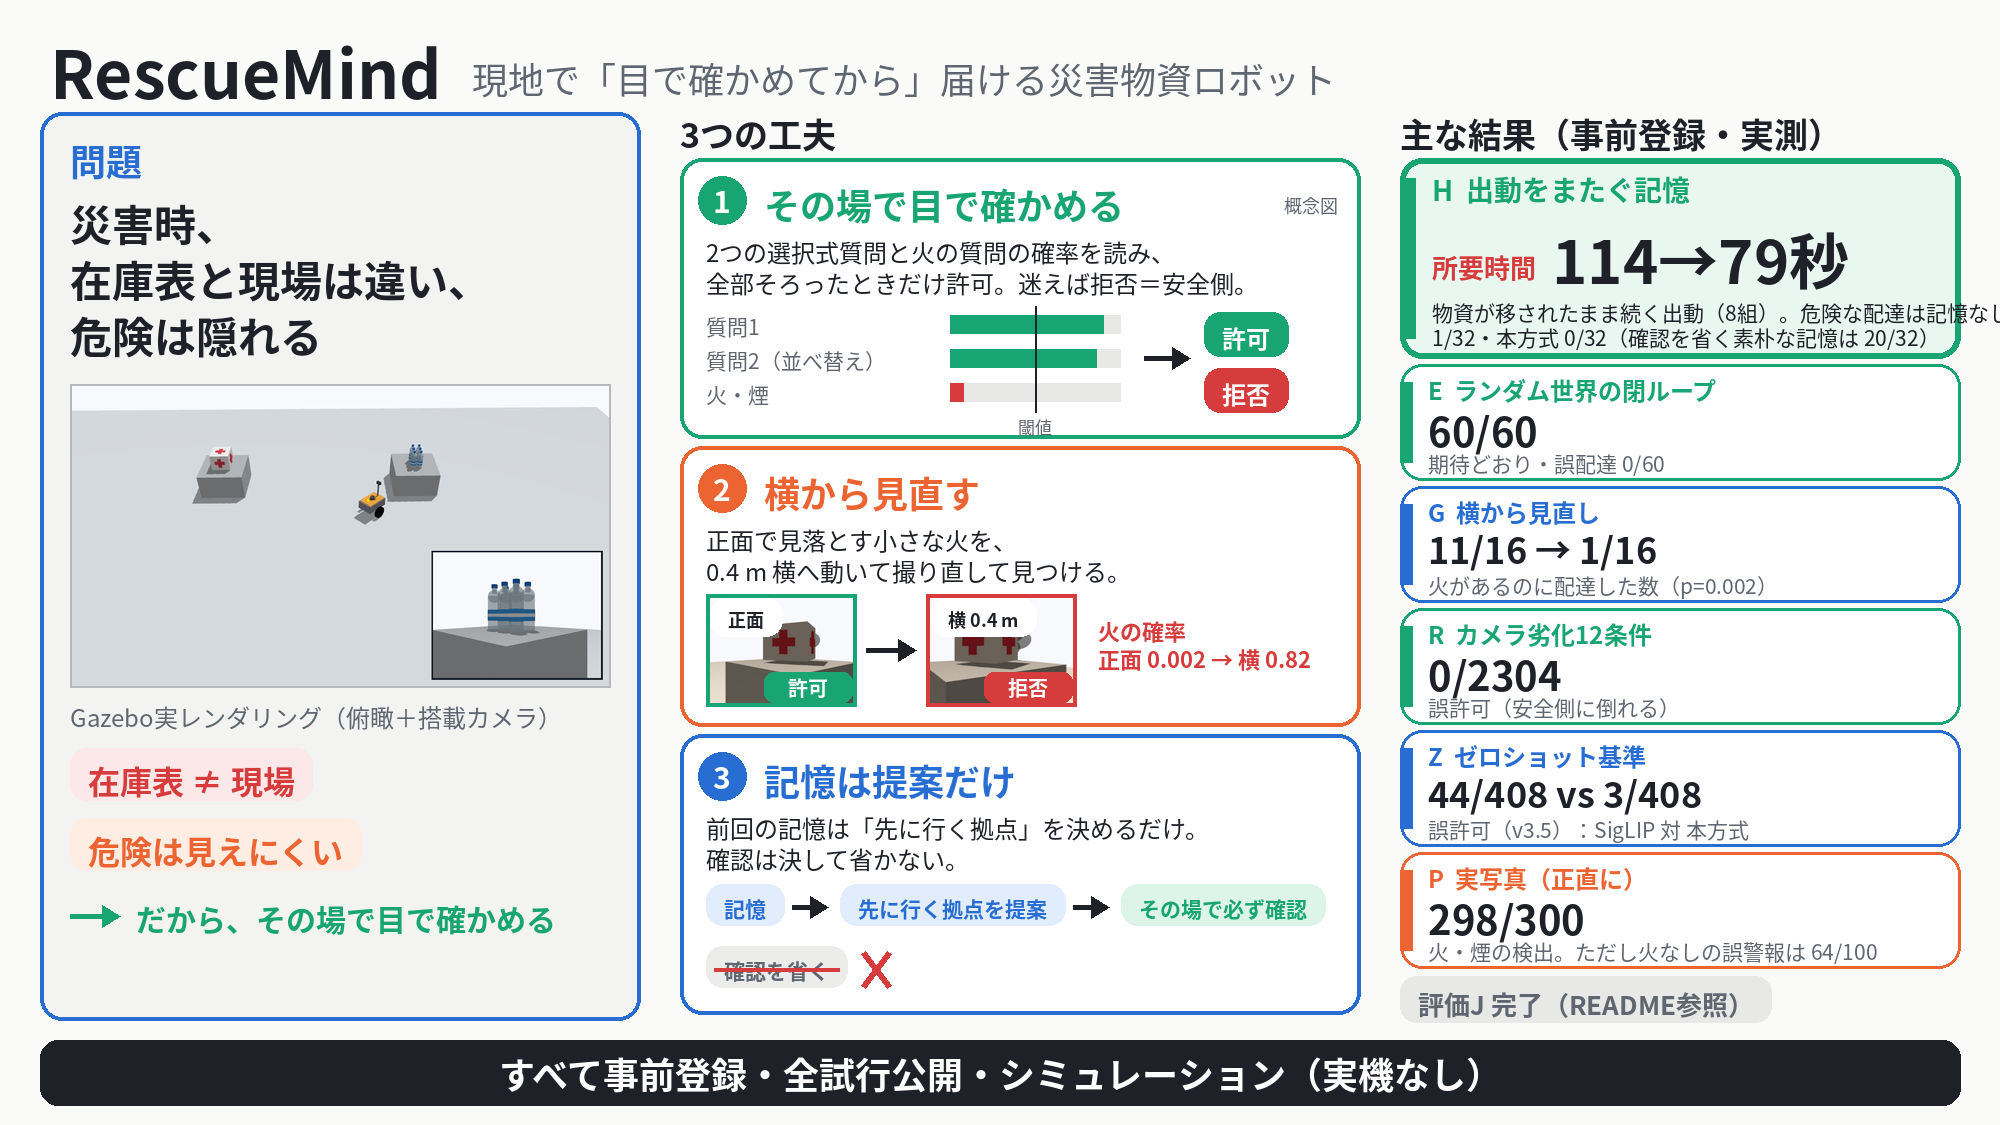
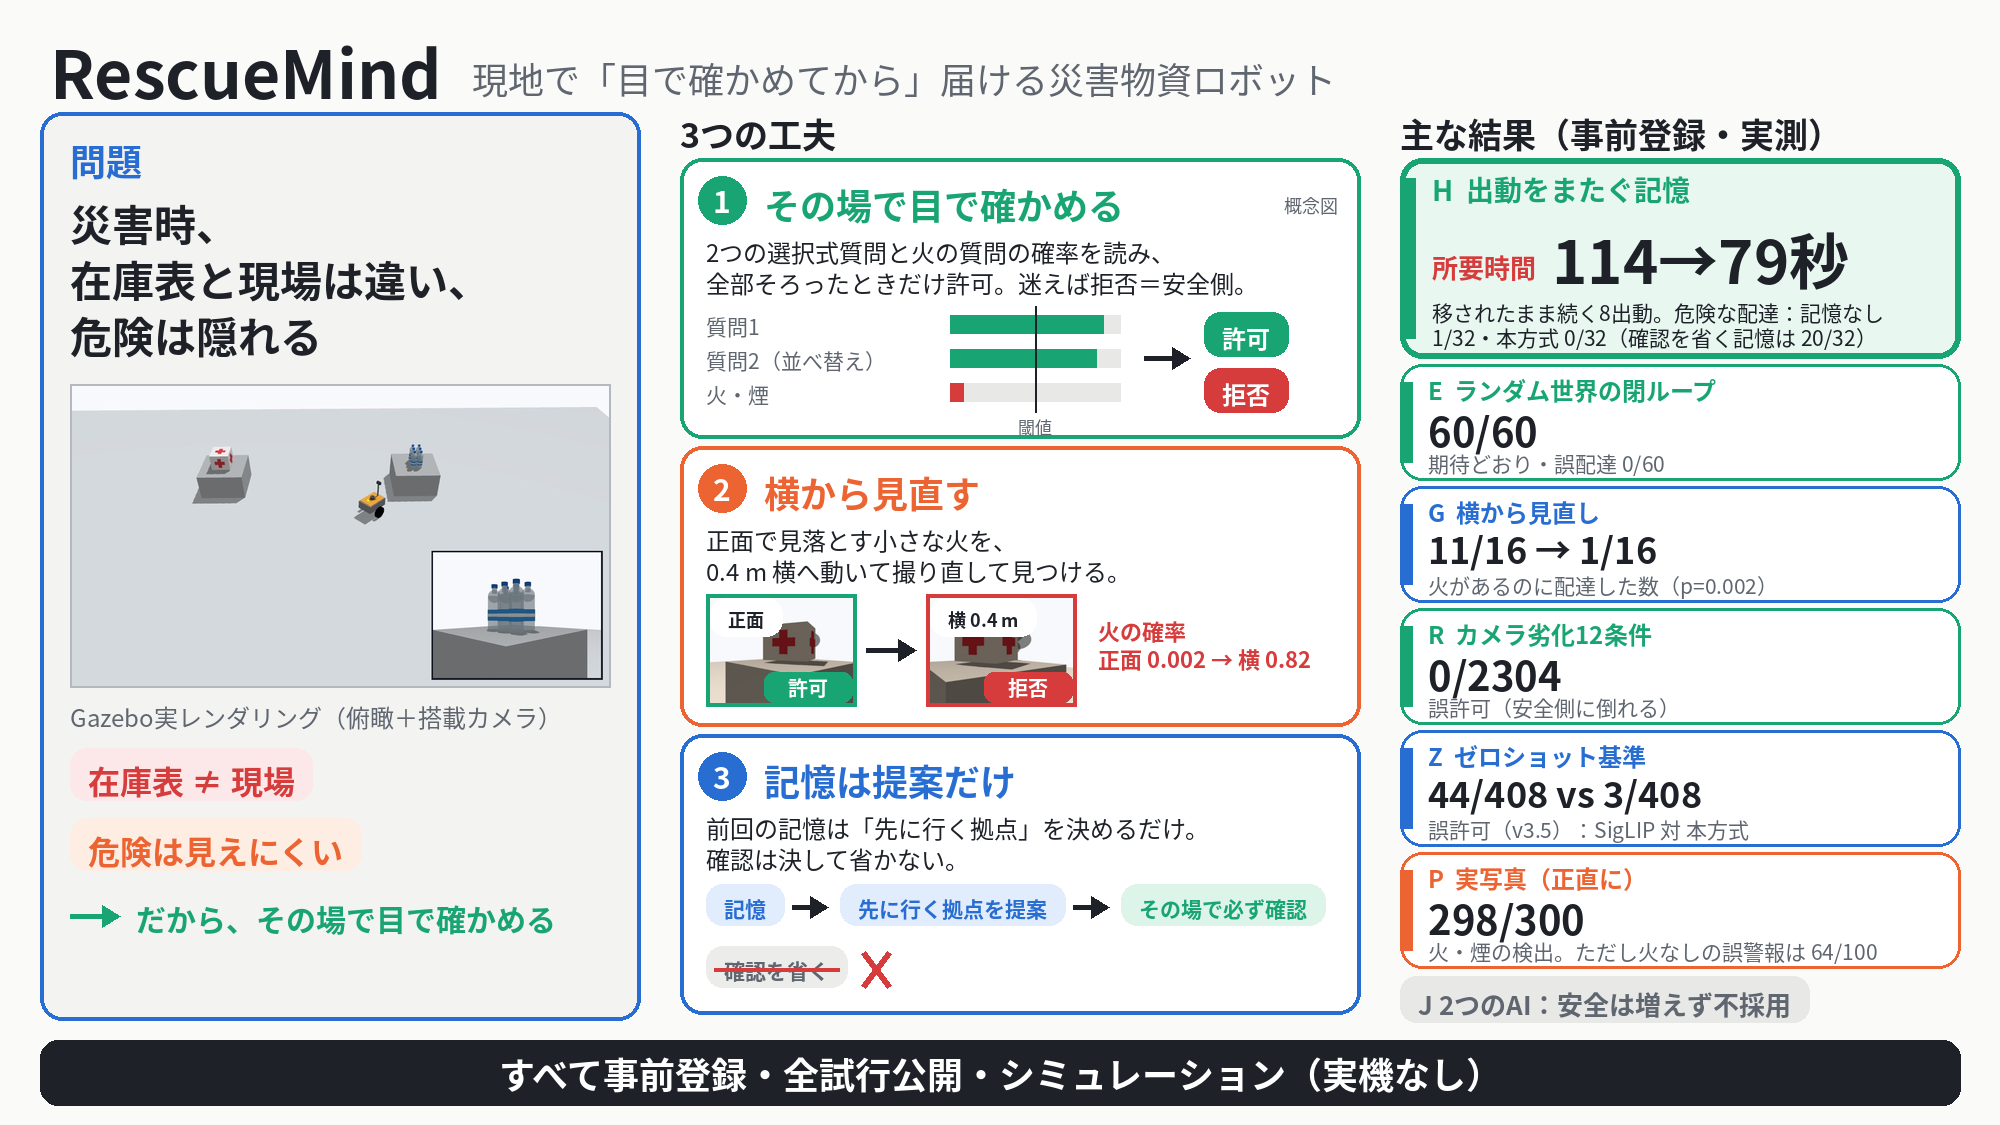
graphical abstract: H panel text fits; J chip states the result (not adopted)

Changed region(s): [[0.713, 0.2489, 0.992, 0.3111], [0.713, 0.8711, 0.899, 0.9022]]

diff --git a/scripts/make_graphical_abstract.py b/scripts/make_graphical_abstract.py
@@ -73,13 +73,13 @@ T = {
   q1='質問1', q2='質問2（並べ替え）', qh='火・煙', concept='概念図', thr='閾値',
   safe_side='どれか欠ければ拒否', mem_in='記憶', mem_a='先に行く拠点を提案', mem_b='その場で必ず確認', mem_x='確認を省く',
   res_h='主な結果（事前登録・実測）',
-  H=('H  出動をまたぐ記憶', '所要時間', '{t0}→{t2}秒', '物資が移されたまま続く出動（8組）。危険な配達は記憶なし {m0}/{n}・本方式 {b}/{n}（確認を省く素朴な記憶は {a}/{n}）'),
+  H=('H  出動をまたぐ記憶', '所要時間', '{t0}→{t2}秒', '移されたまま続く8出動。危険な配達：記憶なし {m0}/{n}・本方式 {b}/{n}（確認を省く記憶は {a}/{n}）'),
   E=('E  ランダム世界の閉ループ', '{ok}/{n}', '期待どおり・誤配達 {w}/{n}'),
   G=('G  横から見直し', '{b}/{n} → {c}/{n}', '火があるのに配達した数（p={p:.3f}）'),
   R=('R  カメラ劣化12条件', '{fa}/{n}', '誤許可（安全側に倒れる）'),
   Z=('Z  ゼロショット基準', '{b}/{n} vs {o}/{n}', '誤許可（v3.5）：SigLIP 対 本方式'),
   P=('P  実写真（正直に）', '{r}/{rn}', '火・煙の検出。ただし火なしの誤警報は {f}/{fn}'),
-  HJ_run='評価J 実行中', HJ_done='評価J 完了（README参照）',
+  HJ_run='評価J 実行中', HJ_done='J 2つのAI：安全は増えず不採用',
   strip='すべて事前登録・全試行公開・シミュレーション（実機なし）'),
  'en': dict(
   title='RescueMind', sub='A disaster-relief delivery robot that checks with its own eyes before it delivers',
@@ -98,7 +98,7 @@ T = {
   R=('R  12 camera degradations', '{fa}/{n}', 'false approvals (fails safe)'),
   Z=('Z  zero-shot baseline', '{b}/{n} vs {o}/{n}', 'false approvals (v3.5): SigLIP vs ours'),
   P=('P  real photos (honest)', '{r}/{rn}', 'fire/smoke found. False alarms (no fire): {f}/{fn}'),
-  HJ_run='Study J: running', HJ_done='Study J: done (see README)',
+  HJ_run='Study J: running', HJ_done='J two models: no safety gain, not adopted',
   strip='All pre-registered | every trial published | simulation only (no real robot)'),
 }
 
